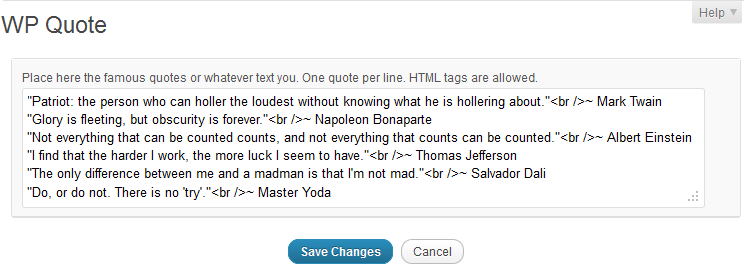
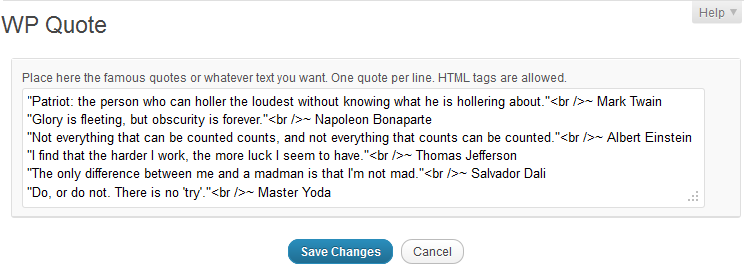
small fix
git-svn-id: https://plugins.svn.wordpress.org/wp-quote/trunk@455663 b8457f37-d9ea-0310-8a92-e5e31aec5664

Changed region(s): [[0.4019, 0.2697, 0.7728, 0.3296]]

diff --git a/wp-quote.php b/wp-quote.php
@@ -33,7 +33,7 @@ global $wpdb;
 			<form method="post">
 			<table class="widefat">
 				<tr valign="top">
-					<td align="left">Place here the famous quotes or whatever text you. One quote per line. HTML tags are allowed.<br />
+					<td align="left">Place here the famous quotes or whatever text you want. One quote per line. HTML tags are allowed.<br />
 					<textarea name="<?php echo WP_QUOTE; ?>" wrap="off" style="margin:0;height:30em;width:100%;"><?php
 					$wp_quote_array = get_option ( WP_QUOTE );
 					echo trim ( stripslashes ( htmlspecialchars ( implode ( "\n", $wp_quote_array ) ) ) );
